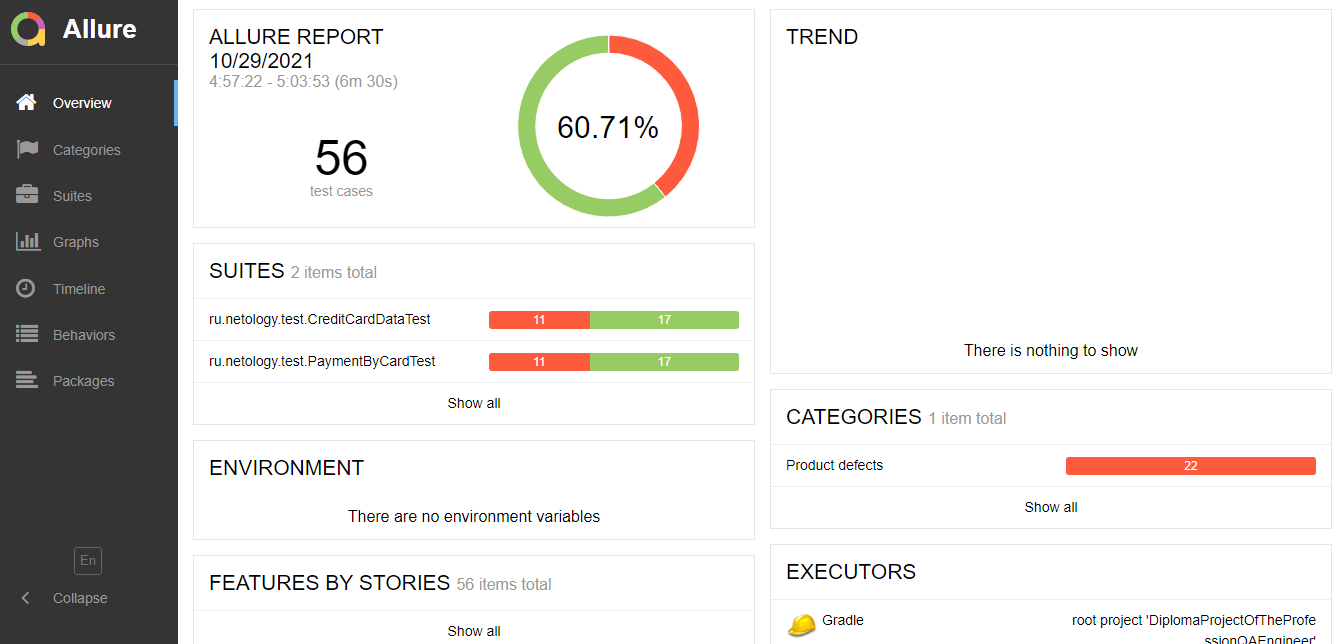
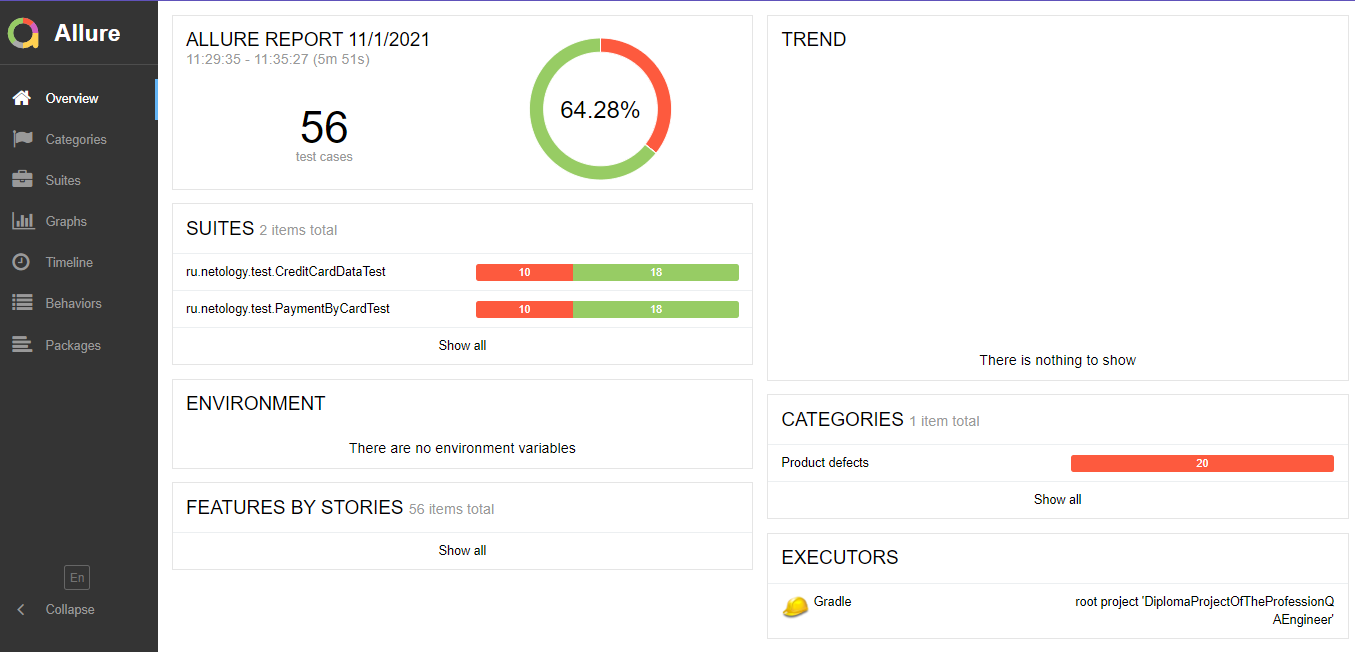
Исправлены незначительные ошибки.

diff --git a/documents/Summary.md b/documents/Summary.md
@@ -8,8 +8,7 @@
     * Автоматизация позитивных и негативных UI сценариев, тестирования сервисов покупки туров ("Оплата по карте" и "Кредит по данным карты");
     * Автоматизация API сценариев;
     * Реализация поддержки БД MySQL и PostgreSQL;
-    * Интеграция с системой репортов (Gradle/Allure);
-    * Интеграция с системой репортов (Appveyor CI).
+    * Интеграция с системой репортов (Gradle/Allure);  
 
 3. Подготовке отчётных документов по итогам автоматизированного тестирования.
 
@@ -18,13 +17,11 @@
 1. В соответствии с планом автоматизации ([Plan.md](Plan.md)), в проекте была реализована автоматизация тестирования всех запланированных сценариев:
     * Позитивные сценарии покупки тура по карте;
     * Позитивные сценарии покупки тура по карте в кредит;
-    * Сценарии позитивного и негативного тестирования всех полей формы (Номер карты, Месяц, Год, Владелец, CVC/CVV).
+    * Сценарии позитивного и негативного тестирования всех полей формы (Номер карты, Месяц, Год, Владелец, CVC/CVV).  
 
-2. Подключено и настроено для интеграции с системой репортов Appveyor CI ([.appveyor.yml](../.appveyor.yml)).
+2. Подключено и настроено для интеграции с системой репортов Gradle/Allure ([build.gradle](../build.gradle)).
 
-3. Подключено и настроено для интеграции с системой репортов Gradle/Allure ([build.gradle](../build.gradle)).
-
-4. В результате проведения тестирования сформирован отчет по итогам тестирования ([Report.md](Report.md)):
+3. В результате проведения тестирования сформирован отчет по итогам тестирования ([Report.md](Report.md)):
     * В отчете указано количество тест кейсов;
     * Статистика в % успешных/неуспешных кейсов;
     * Общие рекомендации по устранению багов.

diff --git a/README.md b/README.md
@@ -1,5 +1,3 @@
-# DiplomaProjectOfTheProfessionQAEngineer [![Build status](https://ci.appveyor.com/api/projects/status/kdh5ky7tuqt4vm38?svg=true)](https://ci.appveyor.com/project/Tanya-ui-hub/diplomaprojectoftheprofessionqaengineer)
-
 # Дипломный проект профессии «Тестировщик»
 
 Дипломный проект представляет собой автоматизацию тестирования комплексного сервиса, взаимодействующего с СУБД и API
@@ -56,8 +54,8 @@
 
 Для запуска автотестов необходимо открыть новую вкладку терминала и ввести следующую команду:
 
-1. "MySQL" - `gradlew test -Dselenide.headless=true -Durlbd=jdbc:mysql://localhost:3306/app --info`
-2. "PostgreSQL" - `gradlew test -Dselenide.headless=true -Durlbd=jdbc:postgresql://localhost:5432/app --info`
+1. "MySQL" - `gradlew test "-Ddb.url=jdbc:mysql://localhost:3306/app" --info`
+2. "PostgreSQL" - `gradlew test "-Ddb.url=jdbc:postgresql://localhost:5432/app" --info`
 
 ## Запуск отчета тестирования
 

diff --git a/documents/Report.md b/documents/Report.md
@@ -9,8 +9,8 @@
 ## Статистика успешных/неуспешных кейсов
 
 ### При подключении к БД MySQL
-> * Успешных кейсов 60.71% (34 кейсов)
-> * Неуспешных кейсов 39.29% (22 кейсов)
+> * Успешных кейсов 64.28% (36 кейсов)
+> * Неуспешных кейсов 35.72% (20 кейсов)
 <details>
    <summary>Report</summary>
 
@@ -20,13 +20,13 @@
 </details>
 
 ### При подключении к БД PostgreSQL
-> * Успешных кейсов 60.71% (34 кейсов)
-> * Неуспешных кейсов 39.29% (22 кейсов)
+> * Успешных кейсов 62.5% (35 кейсов)
+> * Неуспешных кейсов 37.5% (21 кейсов)
 <details>
    <summary>Report</summary>
 
-![ScreenShot](pic/postgeSQL.png)
-![ScreenShot](pic/postgeSQL1.png)
+![ScreenShot](pic/postgreSQL.png)
+![ScreenShot](pic/postgreSQL1.png)
 
 </details>
 
